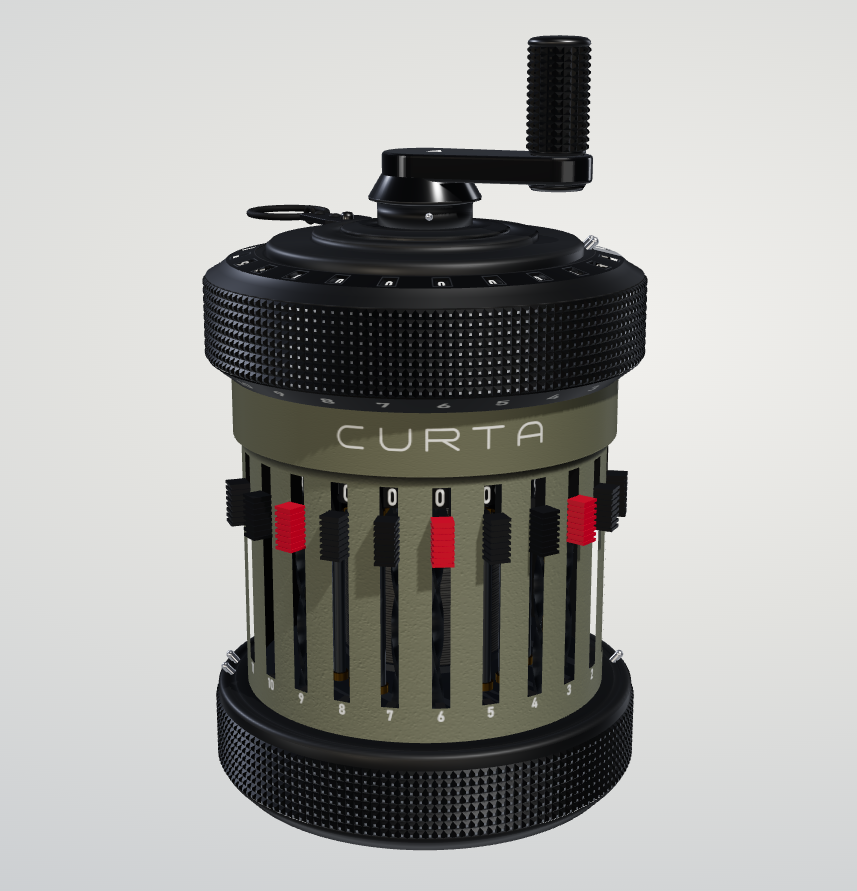
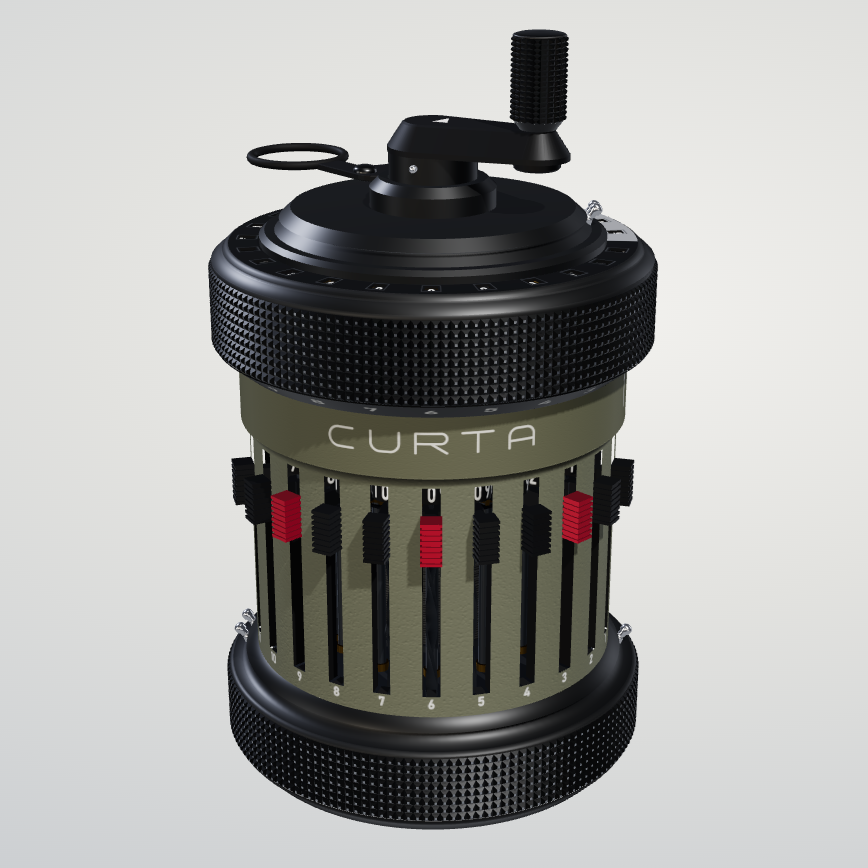
update

Changed region(s): [[0.2124, 0.0311, 0.7585, 0.9643]]

diff --git a/src/curta/index.html b/src/curta/index.html
@@ -729,7 +729,7 @@ function makeMaterials(S) {
   M.blackPlastic = new THREE.MeshPhysicalMaterial({ color: 0x0c0c0d, roughness: 0.42, clearcoat: 0.35, clearcoatRoughness: 0.35 });
   M.screw = new THREE.MeshStandardMaterial({ color: 0xd9d9d6, roughness: 0.32, metalness: 0.55 });
   M.lever = new THREE.MeshPhysicalMaterial({ color: 0x0d0d0f, roughness: 0.5, metalness: 0.2, clearcoat: 0.25, clearcoatRoughness: 0.45 });
-  M.redPlastic = new THREE.MeshPhysicalMaterial({ color: 0xb8141a, roughness: 0.4, clearcoat: 0.35, clearcoatRoughness: 0.35 });
+  M.redAnodised = new THREE.MeshPhysicalMaterial({ color: 0xdc3c48, metalness: 1, roughness: 0.4, clearcoat: 0.2, clearcoatRoughness: 0.35, envMapIntensity: 1.8 });
   M.pin = S.pin === 'chrome' ? M.chrome : new THREE.MeshStandardMaterial({ color: 0xf6f5f0, roughness: 0.25 });
   M.wheelRes = [new THREE.MeshStandardMaterial({ map: wheelTexture('#0a0a0b', '#f6f6f2'), roughness: 0.45 }), M.inner, M.inner];
   M.wheelCnt = [new THREE.MeshStandardMaterial({ map: wheelTexture('#f1f0ea', '#0b0b0c'), roughness: 0.45 }), M.inner, M.inner];
@@ -1012,7 +1012,7 @@ function buildCurta(S) {
       // slider assembly (moves vertically)
       const pv = pivot(phi); G.sliders.add(pv);
       const sg = new THREE.Group(); pv.add(sg);
-      const kMat = red ? M.redPlastic : M.blackPlastic;
+      const kMat = red ? M.redAnodised : M.blackPlastic;
       const lbl = { label: `Setting knob ${k + 1}`, sub: 'Drag up/down', act: { type: 'slider', k } };
       // block around the twisted bar
       const blk = mesh(new THREE.BoxGeometry(2.6, 4.2, 3.6), M.blackPlastic, lbl); blk.position.set(0, 0, D.rB - 0.2); sg.add(blk);
